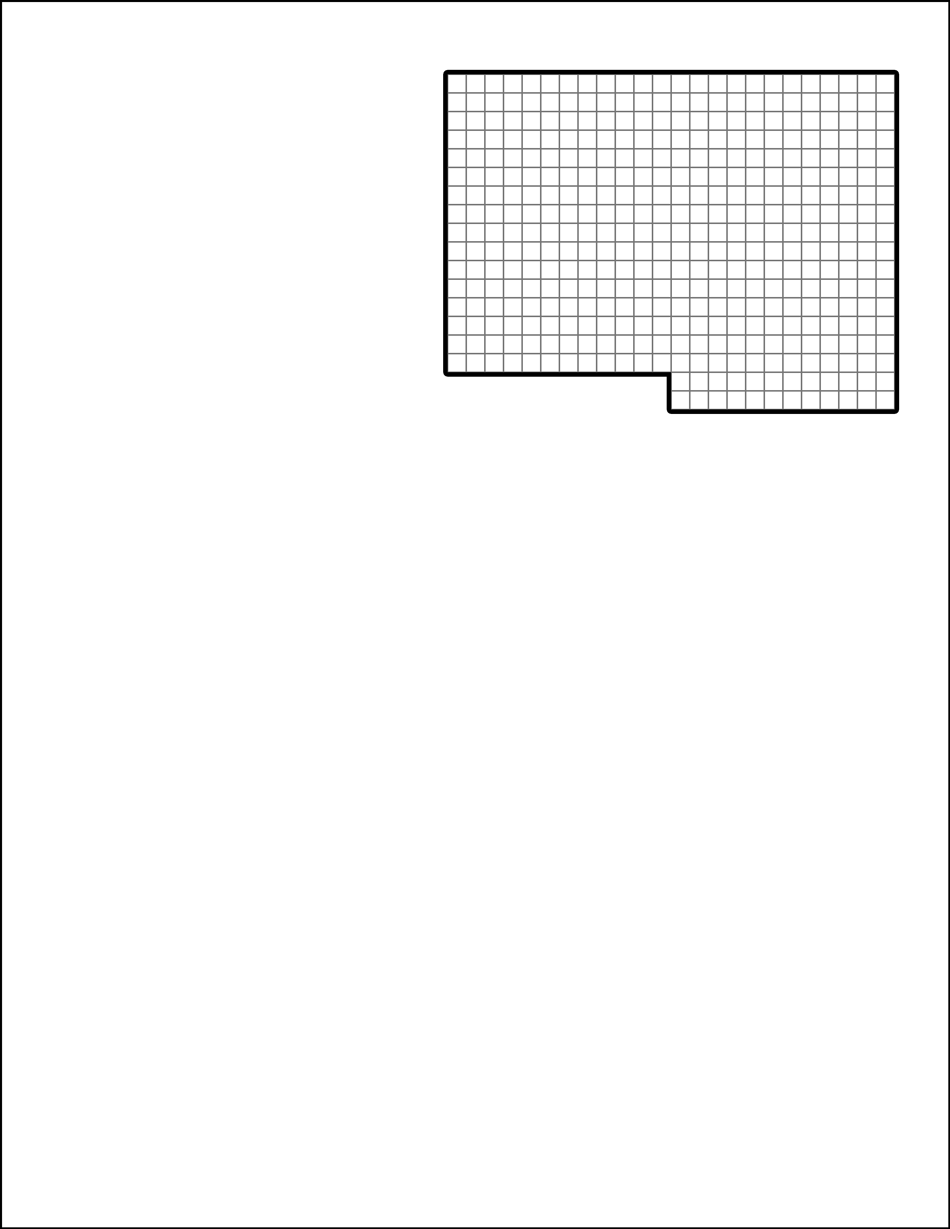
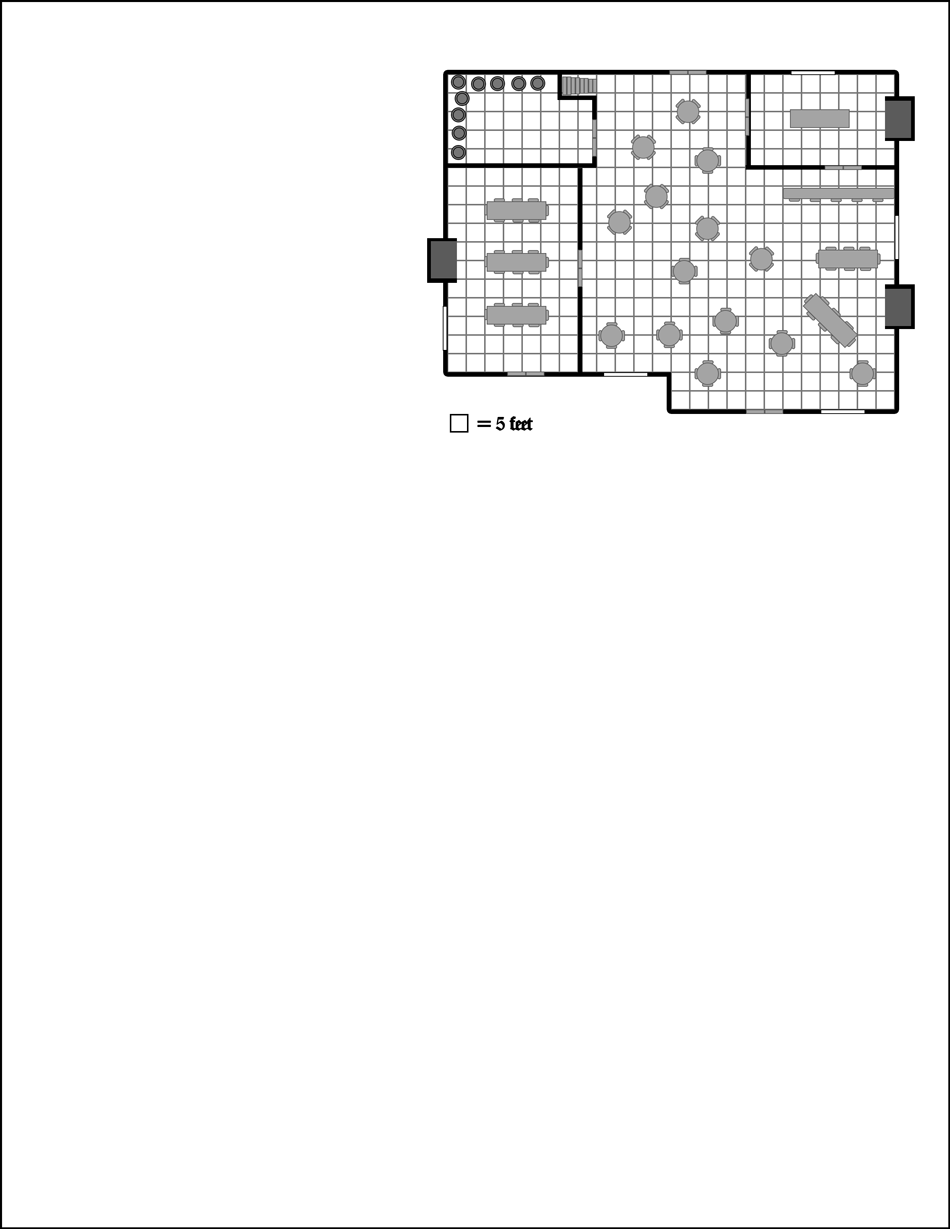
Update 1.03

diff --git a/tavernGen/css/tavern.css b/tavernGen/css/tavern.css
@@ -3,8 +3,9 @@
     left: 0px;
 }
 
+/*
 #tavernTop{
     position: absolute;
     top: 8px;
     left: 8px;
-}
+}*/

diff --git a/tavernGen/php/tavernImage.php b/tavernGen/php/tavernImage.php
@@ -1,26 +1,38 @@
 <?php
 
-function getTavernTop($background)
+function getTavern()
 {
-    if($background == 0)
-    {
-        $number = rand(0,1);
+    $number = rand(0,5);
 
-        switch($number)
-        {
+    switch($number)
+    {
             case 0:
-                return 'images/config/tavern1a.png';
+                return 'images/tavern0.png';
             break;
 
             case 1:
-                return 'images/config/tavern1b.png';
+                return 'images/tavern1.png';
+            break;
+
+            case 2:
+                return 'images/tavern2.png';
+            break;
+
+            case 3:
+                return 'images/tavern3.png';
+            break;
+
+            case 4:
+                return 'images/tavern4.png';
+            break;
+
+            case 5:
+                return 'images/tavern5.png';
             break;
 
             default:
             return ' ';
-        }
-    }
-
+     }
 }
 
 

diff --git a/tavernGen/tavern.php b/tavernGen/tavern.php
@@ -21,27 +21,15 @@
 include 'php/tavernName.php';
 include 'php/tavernImage.php';
 
-$background = 0;
-$tavernImageFront = getTavernTop($background);
+$tavernImage = getTavern();
 
 
 
 ?>
 
-<img src= "images/tavern1.png" id="tavernBackground">
 
-<img src='<?php echo $tavernImageFront ?>' id="tavernTop">
+<img src='<?php echo $tavernImage ?>' id="tavernBackground">
 
-<!--
-<img id="tavernBackground"/>
-
-<script>
-    
-    let imgData = "images/tavern1.png";
-      
-      $("#tavernBackground").attr("src", imgData);
-
-</script>-->
 
 </body>
 </html>
